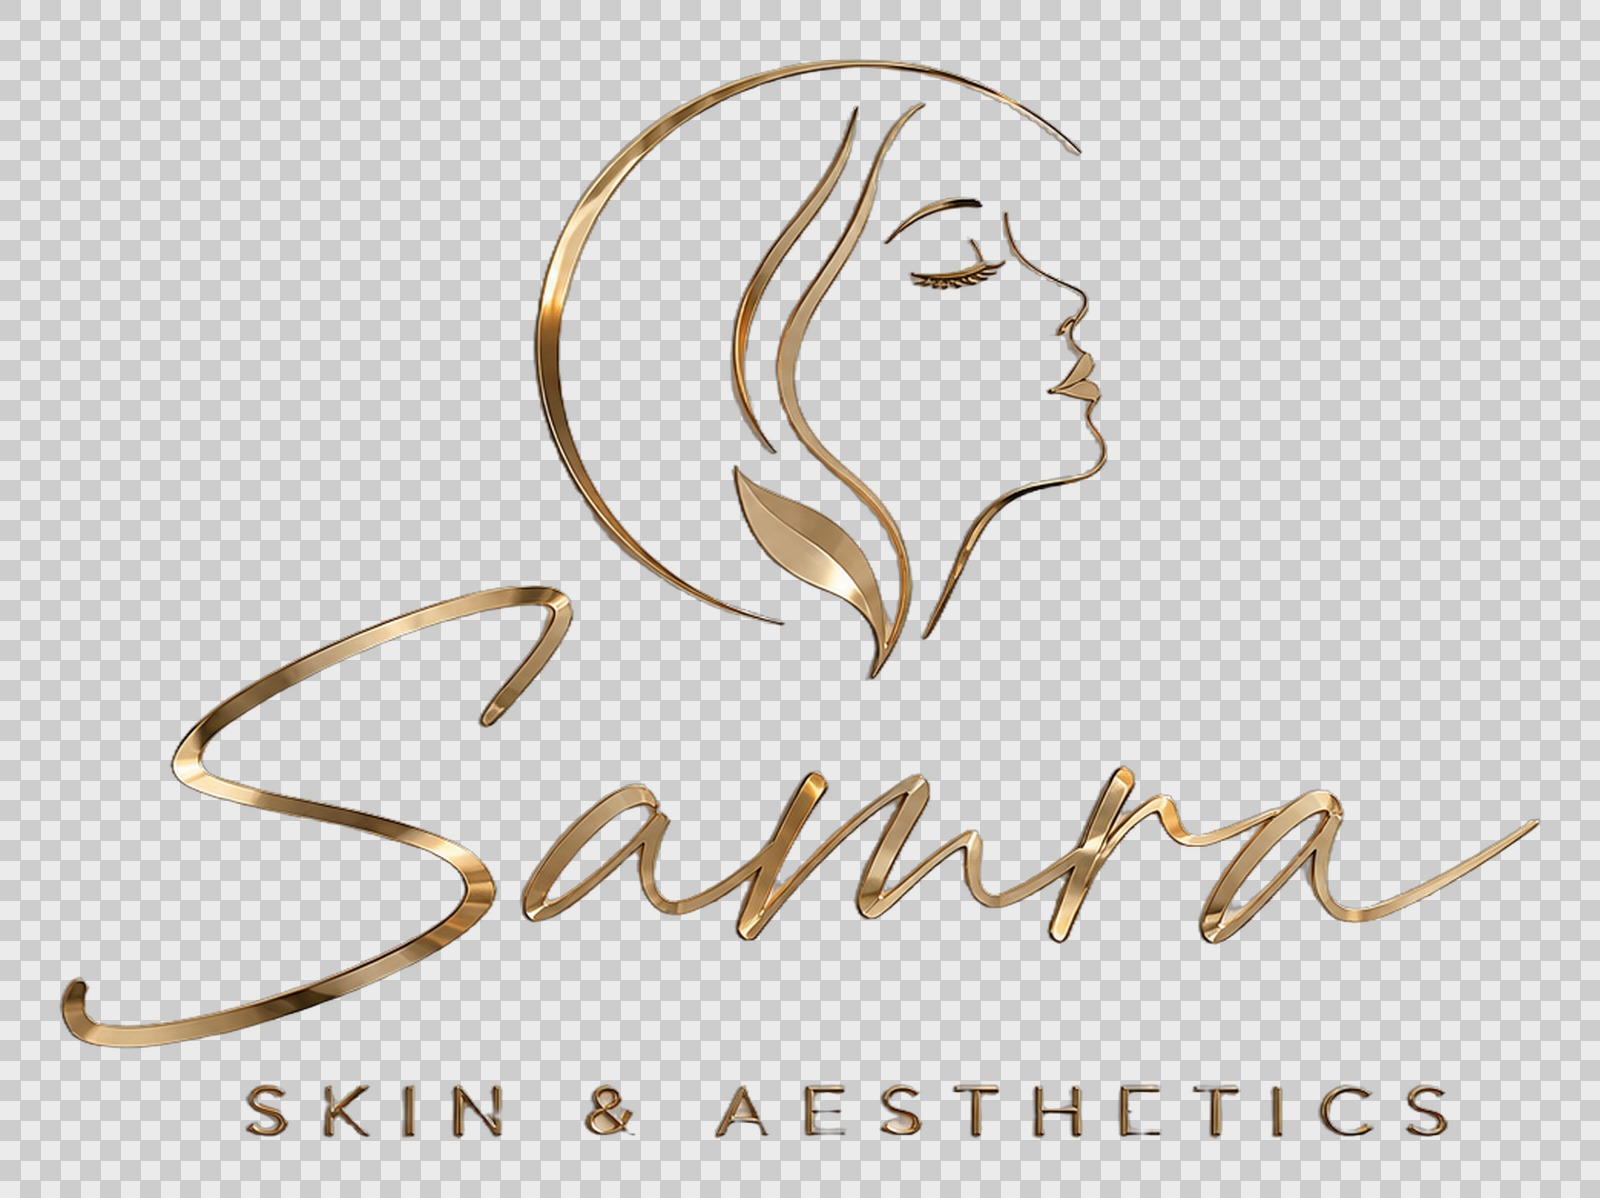
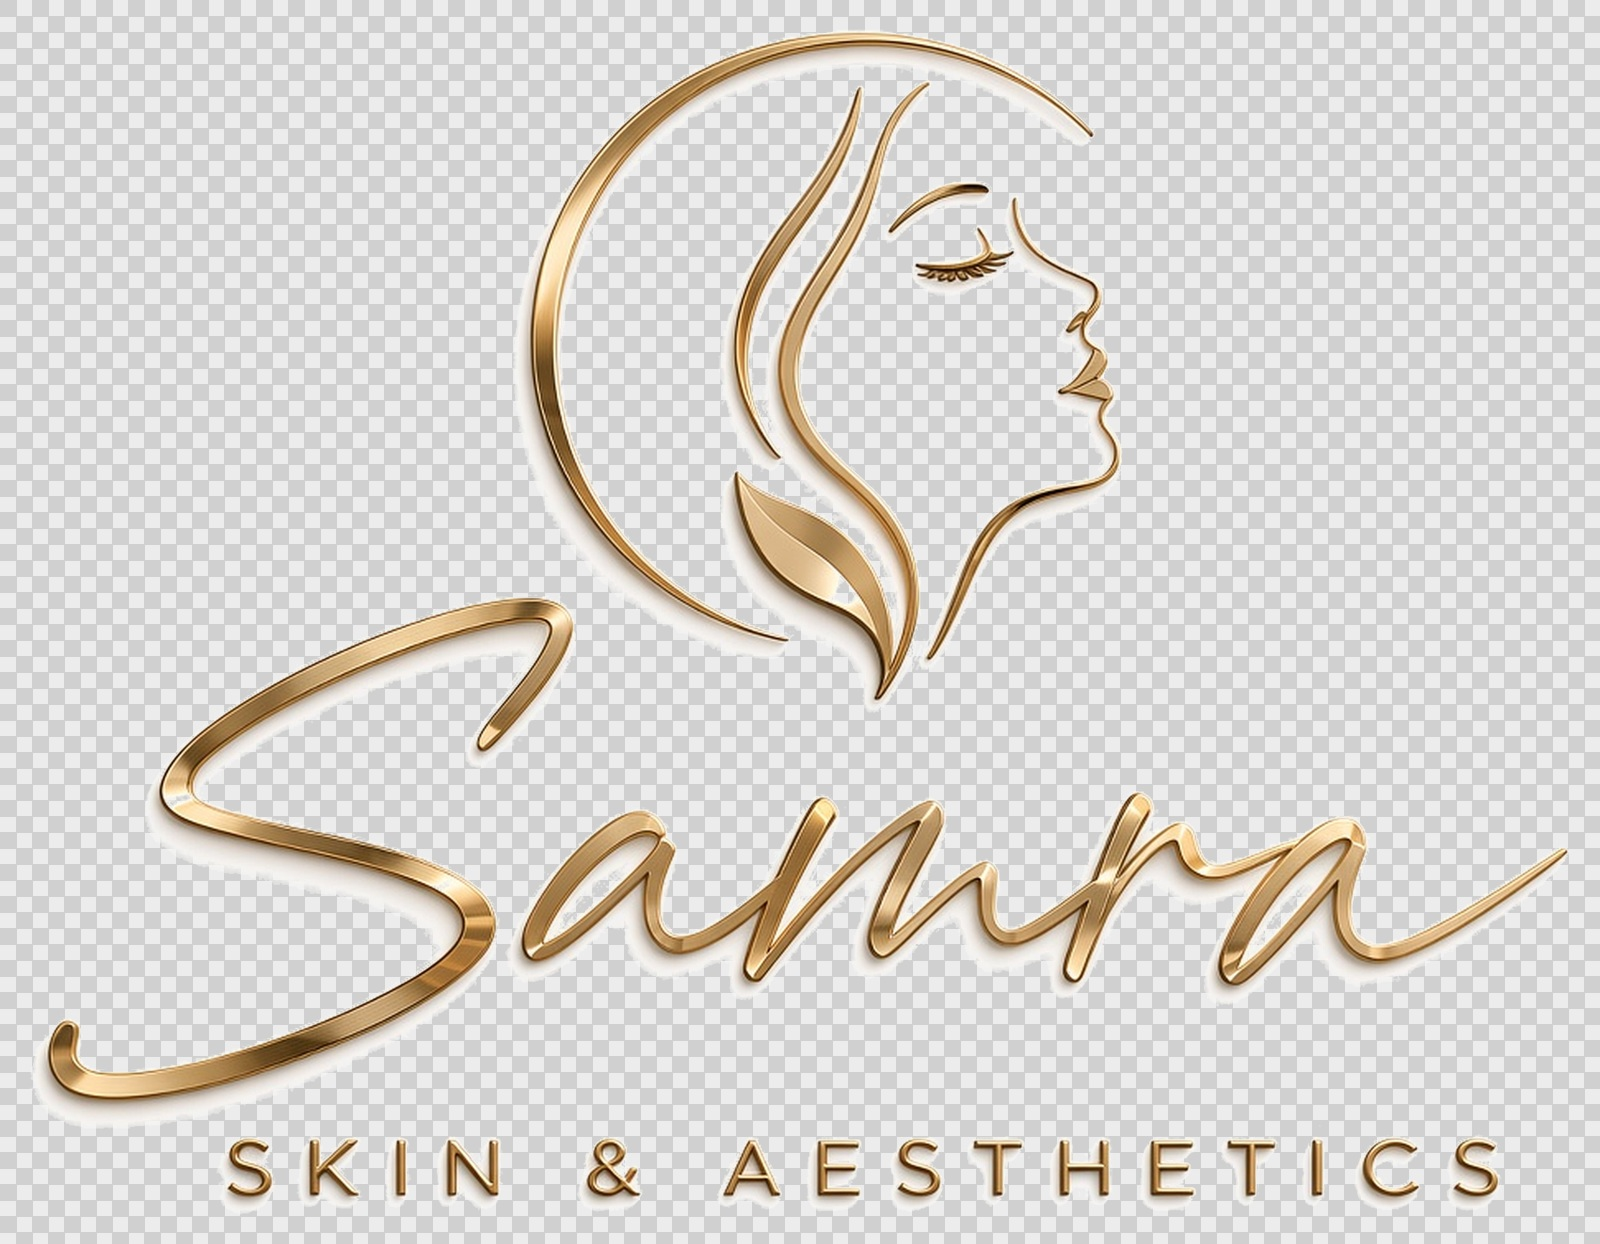
Use crisp white lockup for brand PNG cutouts
Key transparent logos from the approved gold-on-white full lockup so
Samra / SKIN & AESTHETICS stay sharp on the champagne–sage welcome.

diff --git a/clinic-management/src/components/BrandLogo.tsx b/clinic-management/src/components/BrandLogo.tsx
@@ -27,7 +27,7 @@ export function BrandLogo({
         src={placement === "rail" ? "/brand/samra-logo-320.png" : "/brand/samra-logo.png"}
         alt={BRAND.name}
         width={placement === "rail" ? 640 : 1600}
-        height={placement === "rail" ? 479 : 1198}
+        height={placement === "rail" ? 498 : 1244}
         priority={priority}
         className="brand-mark__img"
         unoptimized
